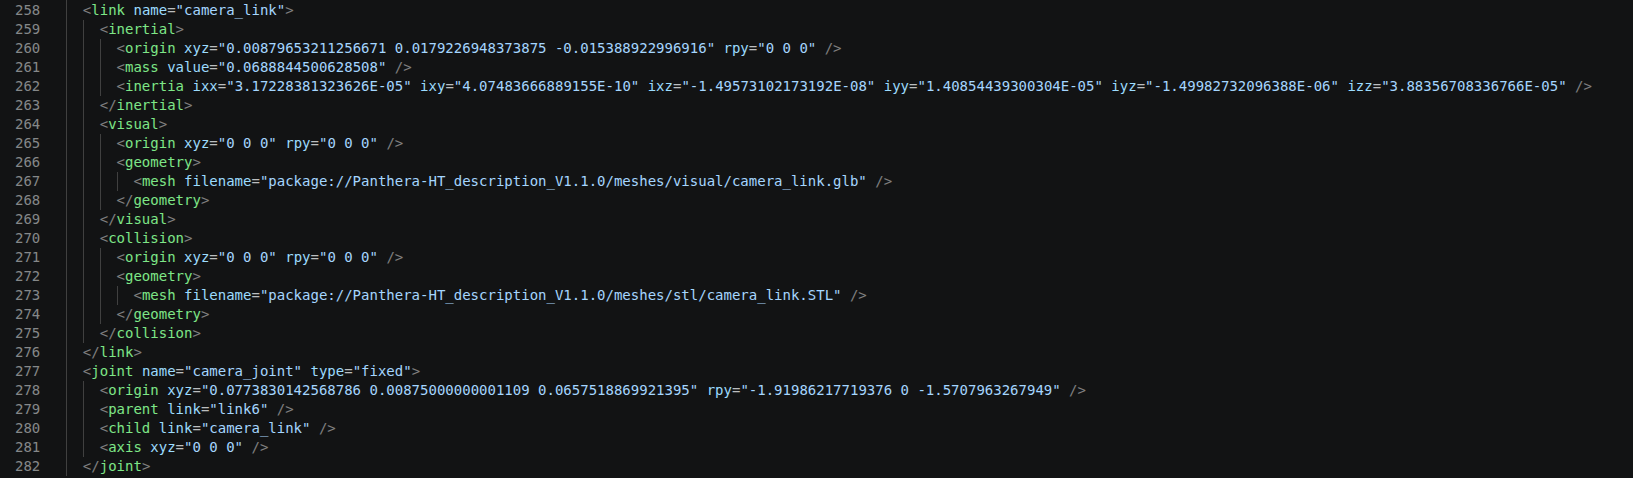
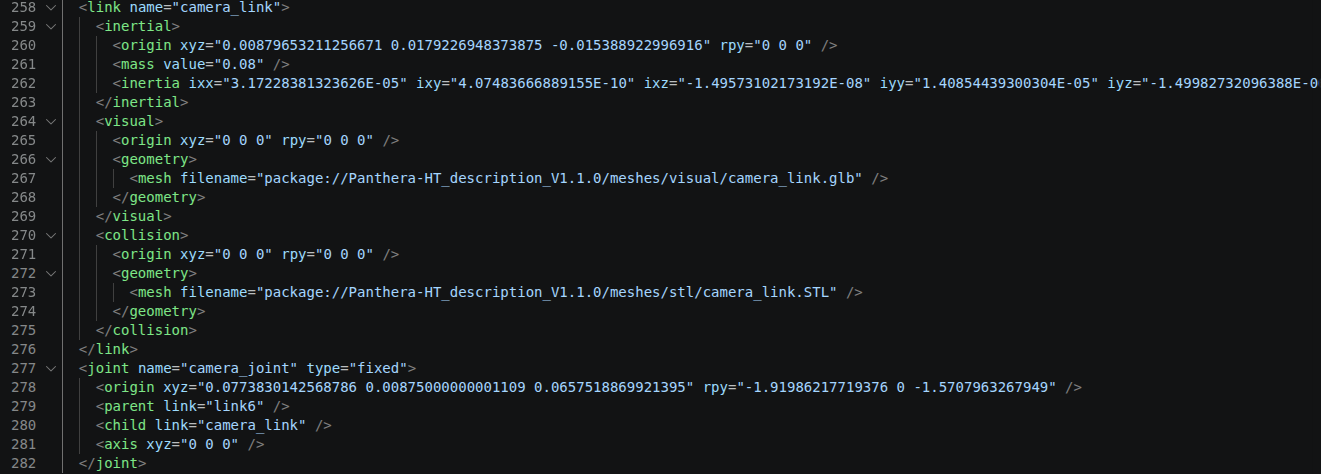
update readme&yaml

Changed region(s): [[0.0, 0.0, 1.0, 1.0]]

diff --git a/panthera_python/Panthera-HT_description_V1.1.0/urdf/README.md b/panthera_python/Panthera-HT_description_V1.1.0/urdf/README.md
@@ -100,6 +100,20 @@
 
 ![启用 D405 相机连杆及固定关节的代码示例](../image/camera_link.png)
 
+## 主臂与从臂的质量配置
+
+主臂相比从臂，需要修改 `gripper_center_link` 的质量。用于主臂时，找到该连杆的 `<inertial>` 部分，将其中的 `<mass>` 设置为 `0.3`（单位：kg）：
+
+```xml
+<mass value="0.3" />
+```
+
+只修改 `gripper_center_link` 下的质量项，左右夹爪连杆的质量不随此步骤修改。从臂保留其对应的质量配置。
+
+下图红框标出了主臂需要修改的位置：
+
+![主臂 gripper_center_link 质量设置为 0.3 kg](../image/leader_arm.png)
+
 ## 修改后检查
 
 保存文件并重新加载 URDF。可以在本目录运行以下命令，检查 XML 格式：
